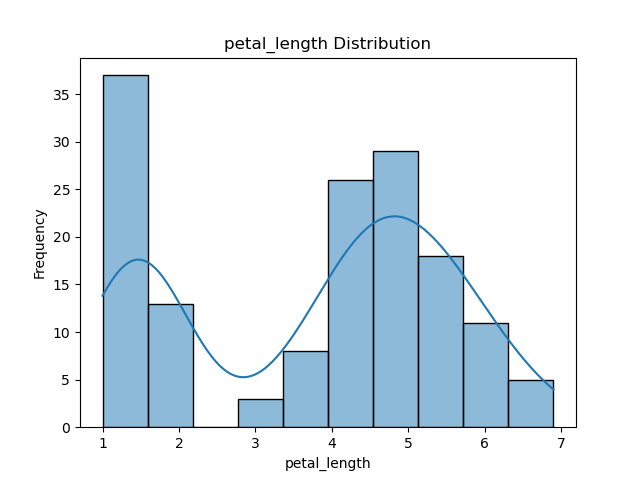
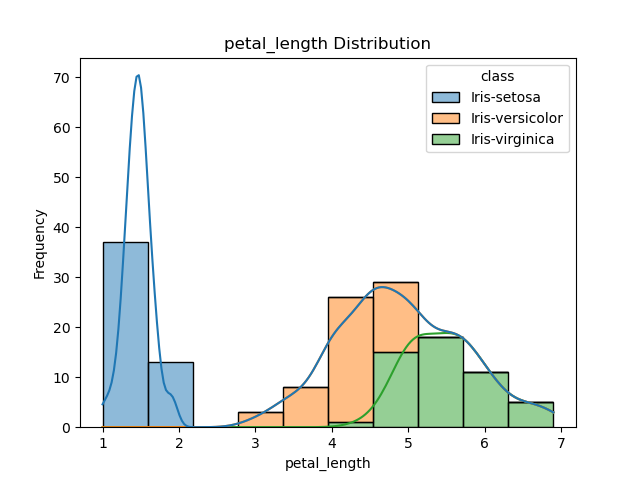
cleaned up histograms

diff --git a/analysis.py b/analysis.py
@@ -38,10 +38,10 @@ with open("summary.txt", "w") as file: # w is to write in the file
     file.write(class_count.to_string()) # success - everything is displayed
 
 # commented out the following code to stop it running for now
-
 '''
+
 # plot histograms of dataset
-sns.histplot(data=df, x='sepal_length', bins=10, kde=True)
+sns.histplot(data=df, x='sepal_length', hue='class', bins=10, kde=True, multiple='stack')
 plt.title('Sepal Length Distribution') 
 plt.xlabel('Sepal Length (cm)')
 plt.ylabel('Frequency')
@@ -52,7 +52,7 @@ plt.close()
 
 # create histograms for all features
 for column in df.columns[:-1]: # negative indexing to exclude the last column (class)
-    sns.histplot(data=df, x=column, bins=10, kde=True)
+    sns.histplot(data=df, x=column, hue='class', bins=10, kde=True, multiple='stack')
     plt.title(f'{column} Distribution')
     plt.xlabel(column)
     plt.ylabel('Frequency')
@@ -74,7 +74,7 @@ plt.xlabel('Petal Length (cm)')
 plt.ylabel('Petal Width (cm)')
 plt.savefig('petal_length_vs_petal_width.png')
 plt.close()
-'''
+
 
 # perform any other analysis I think is appropriate
 
@@ -85,4 +85,6 @@ plot = sns.pairplot(df, hue='class')
 plot.fig.suptitle('Pairplot of Iris Dataset', y=1.02) # adjust title position
 plt.savefig('pairplot.png', bbox_inches='tight') # save the figure with tight layout
 plt.close()
+
+'''
 

diff --git a/README.md b/README.md
@@ -4,6 +4,8 @@
 
 Hi there, I'm David - and you're currently reading my README.md file regarding my pands-project for 2025, centered around the Iris dataset.
 
+I am comfortable writing markdown files because I use [Obsidian](https://obsidian.md/) as one of my primary notetaking sources, both for personal use and for use throughout this college course.
+
 ### **Project Parameters**
 
 - [x] Research the dataset online and write a summary about it in your README.
@@ -40,4 +42,20 @@ However - if I was to research these features in greater depth, a brief text sum
 
 #### **The Basic Visuals**
 
-The first visualisation step is perhaps the most familiar to me - the histogram. I decided to generate a histogram for each feature: sepal length, sepal width, petal length and petal width. With 
+##### **Histograms**
+
+The first visualisation step is perhaps the most familiar to me - the histogram. I decided to generate a histogram for each feature: [sepal length](./pngs/sepal_length_distribution.png), [sepal width](./pngs/sepal_width_distribution.png), [petal length](./pngs/petal_length_distribution.png) and [petal width](./pngs/petal_width_distribution.png). These were created using the `seaborn` library.
+
+I created these so that I could visually identify the distribution shape of each of the features. This is useful as I can see how separable and identifiable each of the species are within just one feature.
+
+With these histograms, I can interpret the following for each of the features:
+
+**Sepal Length:**
+
+
+
+
+##### **Scatterplots**
+
+
+
